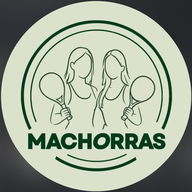
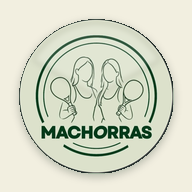
Bordes verde nítidos en todo + iconos PWA con fondo beige (sin marco negro)
CAMBIO 1 — Bordes verde forest visibles en todos los recuadros:
  - --paper-edge       0.08 -> 0.22 (cards y ranking principales)
  - --border-soft      nuevo 0.15  (nav-box, pista label, ranking button, td)
  - --border-strong    nuevo 0.30  (inputs, hover de cards)
  - Logo: anillo verde de 1.5px (antes 1px al 12%)
  - Resultado: todo recortado y nítido, manteniendo elegancia

CAMBIO 2 — Iconos PWA rediseñados para evitar el borde negro al añadir
a pantalla de inicio:
  - Canvas relleno COMPLETO de beige (#F2EFE0) por todo el cuadrado.
  - Círculo cream del logo centrado con padding 10% (zona segura para
    maskable icons en Android).
  - Sombra elíptica suave debajo del círculo (forest-deep + Gaussian blur)
    para efecto 3D / profundidad.
  - Halo verde 1px alrededor del círculo (50/255 alpha).
  - Highlight cream superior (pieslice + blur) para volumen estilo botón.
  - Cuando iOS redondee las esquinas para la pantalla de inicio: ya no se
    ve negro, se ve beige.
  - Iconos generados: icon-192, icon-512, apple-touch-icon (180), favicon-32.

diff --git a/index.html b/index.html
@@ -17,7 +17,8 @@
 <meta name="apple-mobile-web-app-title" content="Machorras">
 
 <link rel="apple-touch-icon" href="apple-touch-icon.png">
-<link rel="icon" type="image/png" href="icon-192.png">
+<link rel="icon" type="image/png" sizes="32x32" href="favicon-32.png">
+<link rel="icon" type="image/png" sizes="192x192" href="icon-192.png">
 
 <link rel="preconnect" href="https://sxtgzpzneqyaxljpkqmb.supabase.co" crossorigin>
 <link rel="preconnect" href="https://cdn.jsdelivr.net" crossorigin>
@@ -348,7 +349,9 @@ initAuth();
     --cream:         #E8E4CF;   /* Cream del logo */
     --cream-deep:    #D9D3B7;   /* Cream sombra */
     --paper:         #FAF8EC;   /* Papel para tarjetas, casi blanco */
-    --paper-edge:    rgba(14, 77, 42, 0.08);
+    --paper-edge:    rgba(14, 77, 42, 0.22);   /* Borde verde sutil pero visible (todas las cards) */
+    --border-soft:   rgba(14, 77, 42, 0.15);   /* Borde más ligero (nav, pista label) */
+    --border-strong: rgba(14, 77, 42, 0.30);   /* Borde marcado (inputs en foco, hovers) */
 
     --forest:        #0E4D2A;   /* Verde forest del logo */
     --forest-mid:    #1C6038;   /* Verde medio para hover */
@@ -402,7 +405,7 @@ body {
     display: flex; align-items: center; justify-content: center;
     background: var(--cream);
     box-shadow:
-        0 0 0 1px rgba(14, 77, 42, 0.12),
+        0 0 0 1.5px rgba(14, 77, 42, 0.35),
         0 22px 48px -16px rgba(7, 51, 27, 0.28),
         0 8px 18px -8px rgba(7, 51, 27, 0.16),
         inset 0 0 0 6px rgba(255, 255, 255, 0.4);
@@ -445,7 +448,7 @@ body {
     -webkit-backdrop-filter: saturate(160%) blur(18px);
     padding: 0.6rem;
     border-radius: 1.4rem;
-    border: 1px solid rgba(14, 77, 42, 0.08);
+    border: 1px solid var(--border-soft);
     box-shadow: var(--shadow-md);
 }
 .nav-scroll { display: flex; gap: 0.35rem; overflow-x: auto; scrollbar-width: none; }
@@ -490,11 +493,13 @@ body {
     text-transform: uppercase;
     letter-spacing: 0.32em;
     font-weight: 800;
+    border: 1px solid var(--border-soft);
 }
-#btn-ranking:hover { background: rgba(14, 77, 42, 0.08); }
+#btn-ranking:hover { background: rgba(14, 77, 42, 0.08); border-color: var(--paper-edge); }
 #btn-ranking.active-ronda {
     background: var(--forest) !important;
     color: var(--cream) !important;
+    border-color: var(--forest) !important;
 }
 
 /* ── MATCH CARDS ── */
@@ -509,6 +514,7 @@ body {
     font-weight: 800;
     letter-spacing: 0.18em;
     text-transform: uppercase;
+    border: 1px solid var(--border-soft);
 }
 
 .match-card {
@@ -520,11 +526,12 @@ body {
     margin-bottom: 1.1rem;
     border: 1px solid var(--paper-edge);
     box-shadow: var(--shadow-md);
-    transition: transform 0.45s var(--ease), box-shadow 0.45s var(--ease);
+    transition: transform 0.45s var(--ease), box-shadow 0.45s var(--ease), border-color 0.35s var(--ease-soft);
 }
 .match-card:hover {
     transform: translateY(-2px);
     box-shadow: var(--shadow-lg);
+    border-color: var(--border-strong);
 }
 
 .team-name {
@@ -546,10 +553,10 @@ input {
     border-radius: 0.85rem;
     font-weight: 900;
     font-size: 24px;
-    border: 1px solid rgba(14, 77, 42, 0.12) !important;
+    border: 1px solid var(--border-strong) !important;
     box-shadow: inset 0 1px 2px rgba(7, 51, 27, 0.05);
     transition: border-color 0.25s var(--ease-soft), box-shadow 0.25s var(--ease-soft), background 0.25s var(--ease-soft);
-    font-feature-settings: "tnum";  /* tabular numerals */
+    font-feature-settings: "tnum";
 }
 input::placeholder { color: rgba(14, 77, 42, 0.3); font-weight: 700; }
 input:focus {
@@ -587,7 +594,7 @@ input:focus {
 .ranking-container table { width: 100%; border-collapse: collapse; }
 .ranking-container td {
     padding: 18px 14px;
-    border-bottom: 1px solid rgba(14, 77, 42, 0.07);
+    border-bottom: 1px solid var(--border-soft);
     color: var(--forest);
 }
 .ranking-container tr:last-child td { border-bottom: none; }